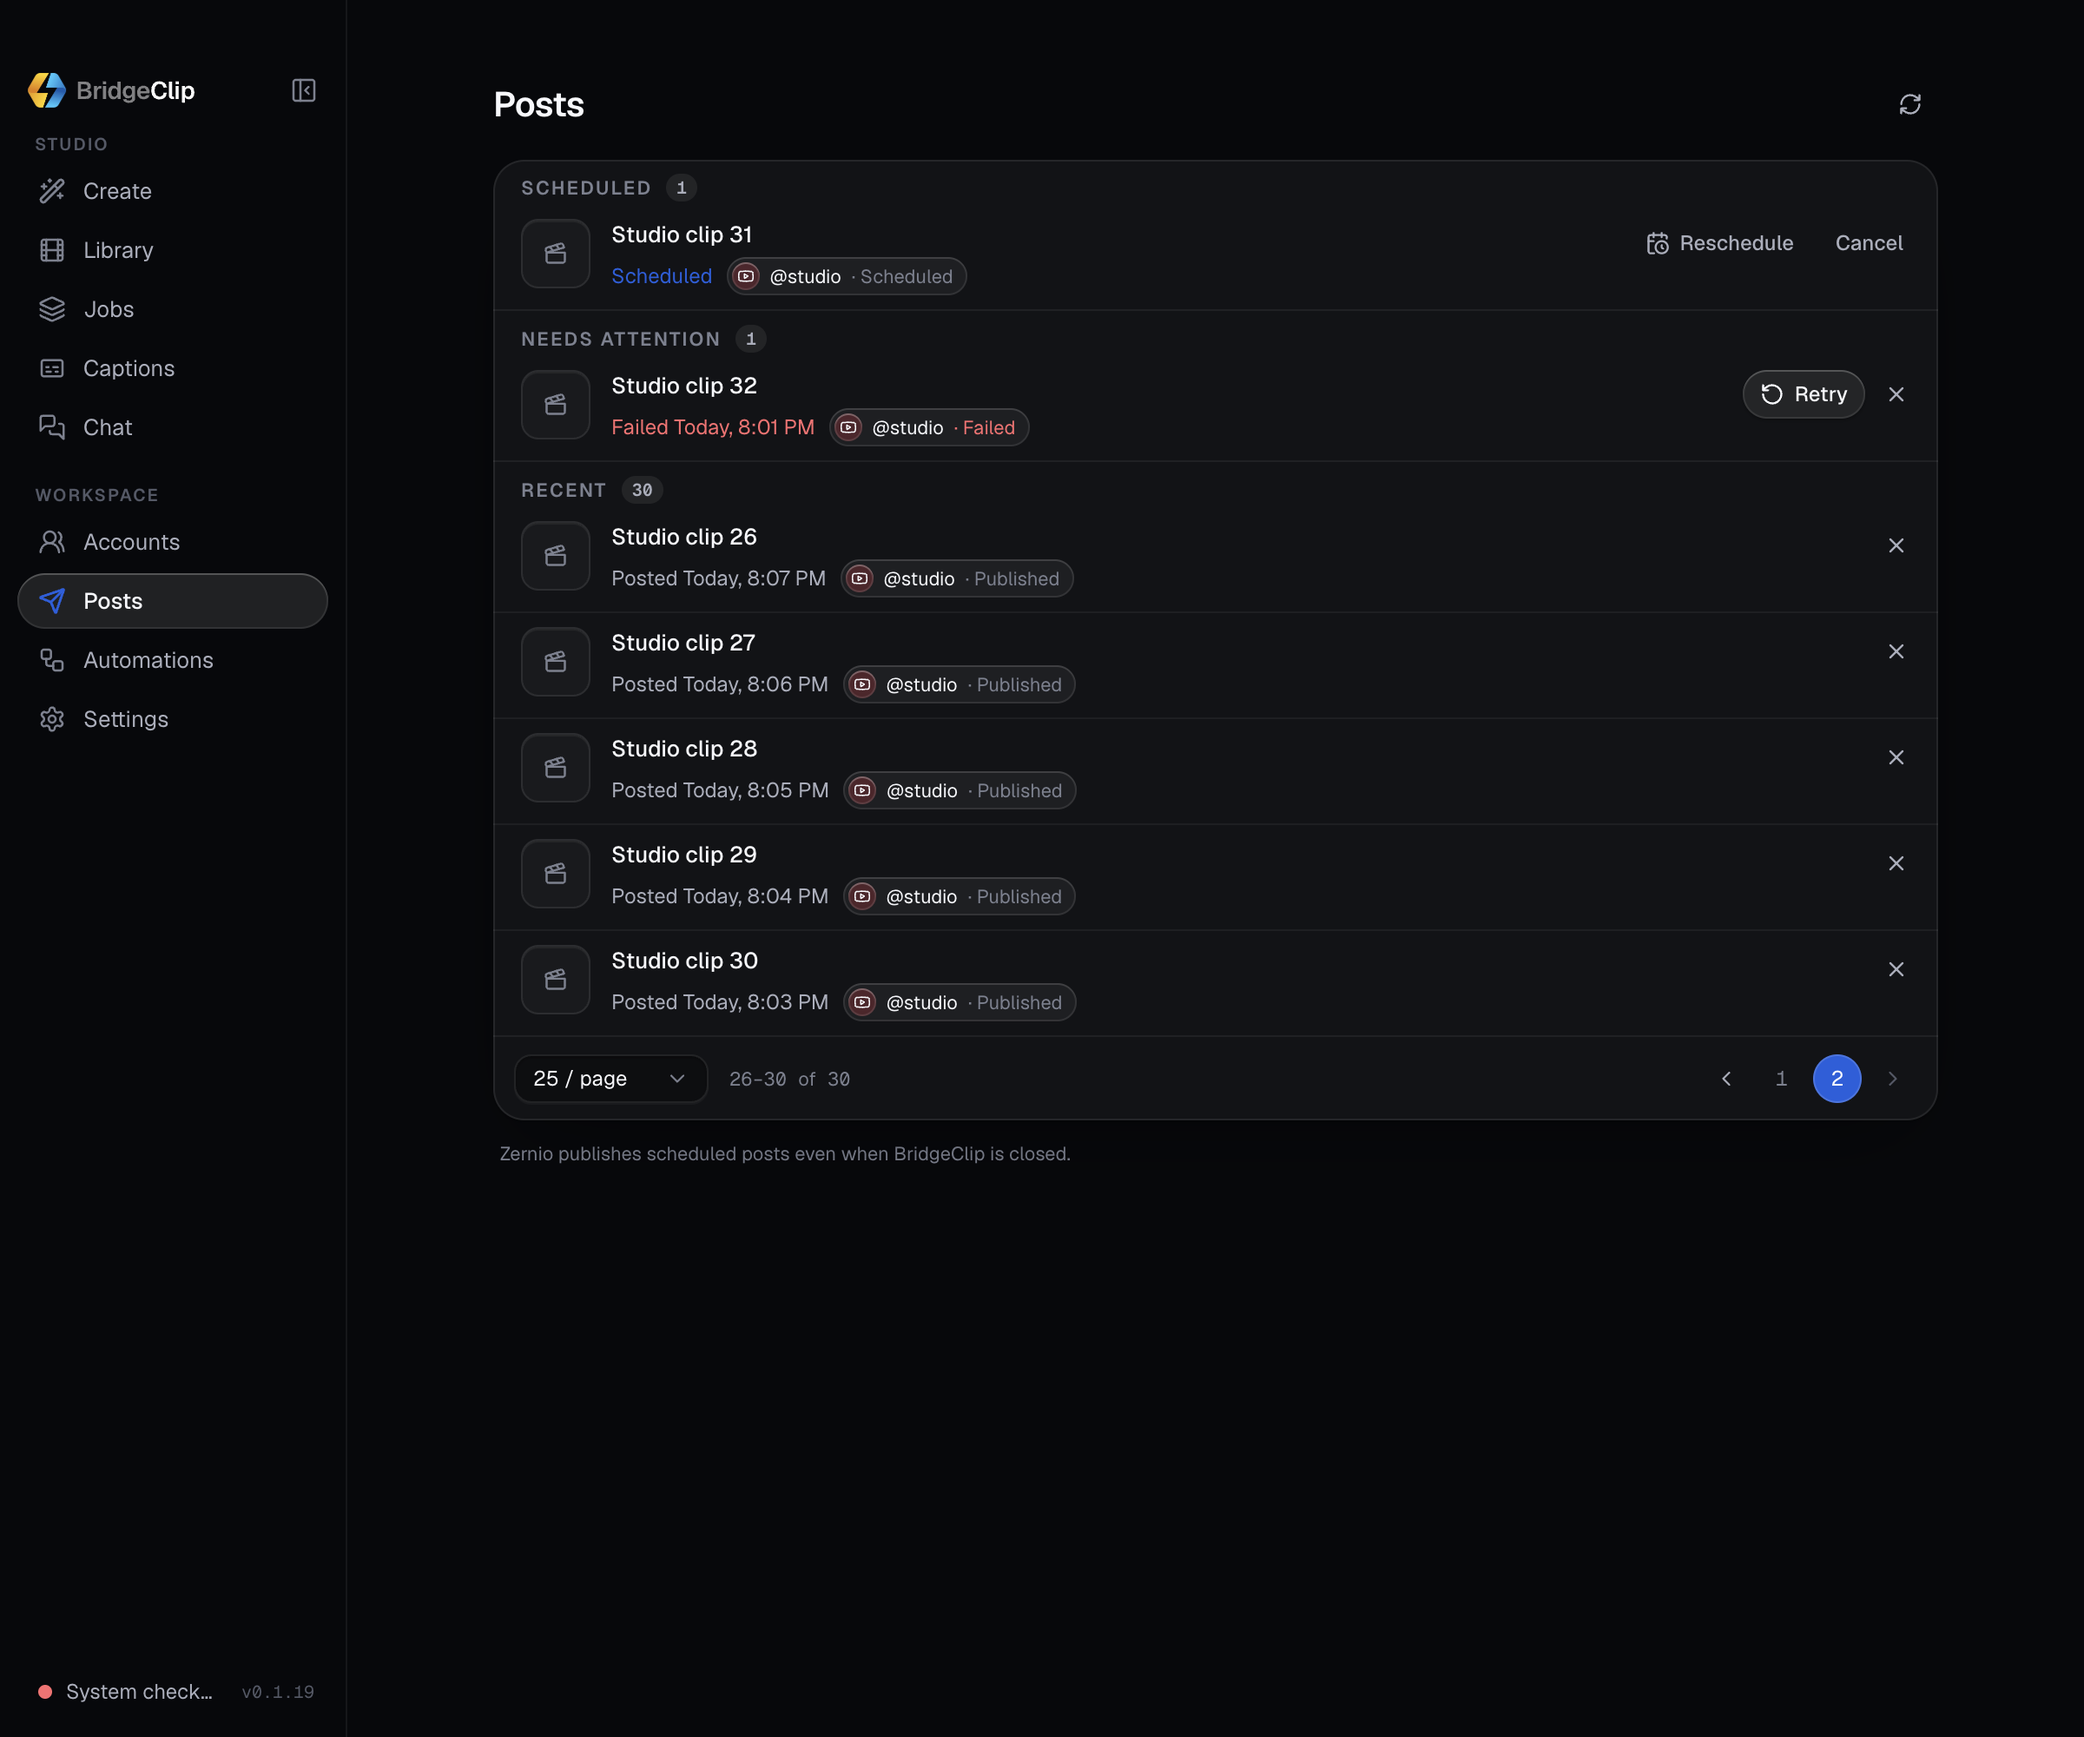
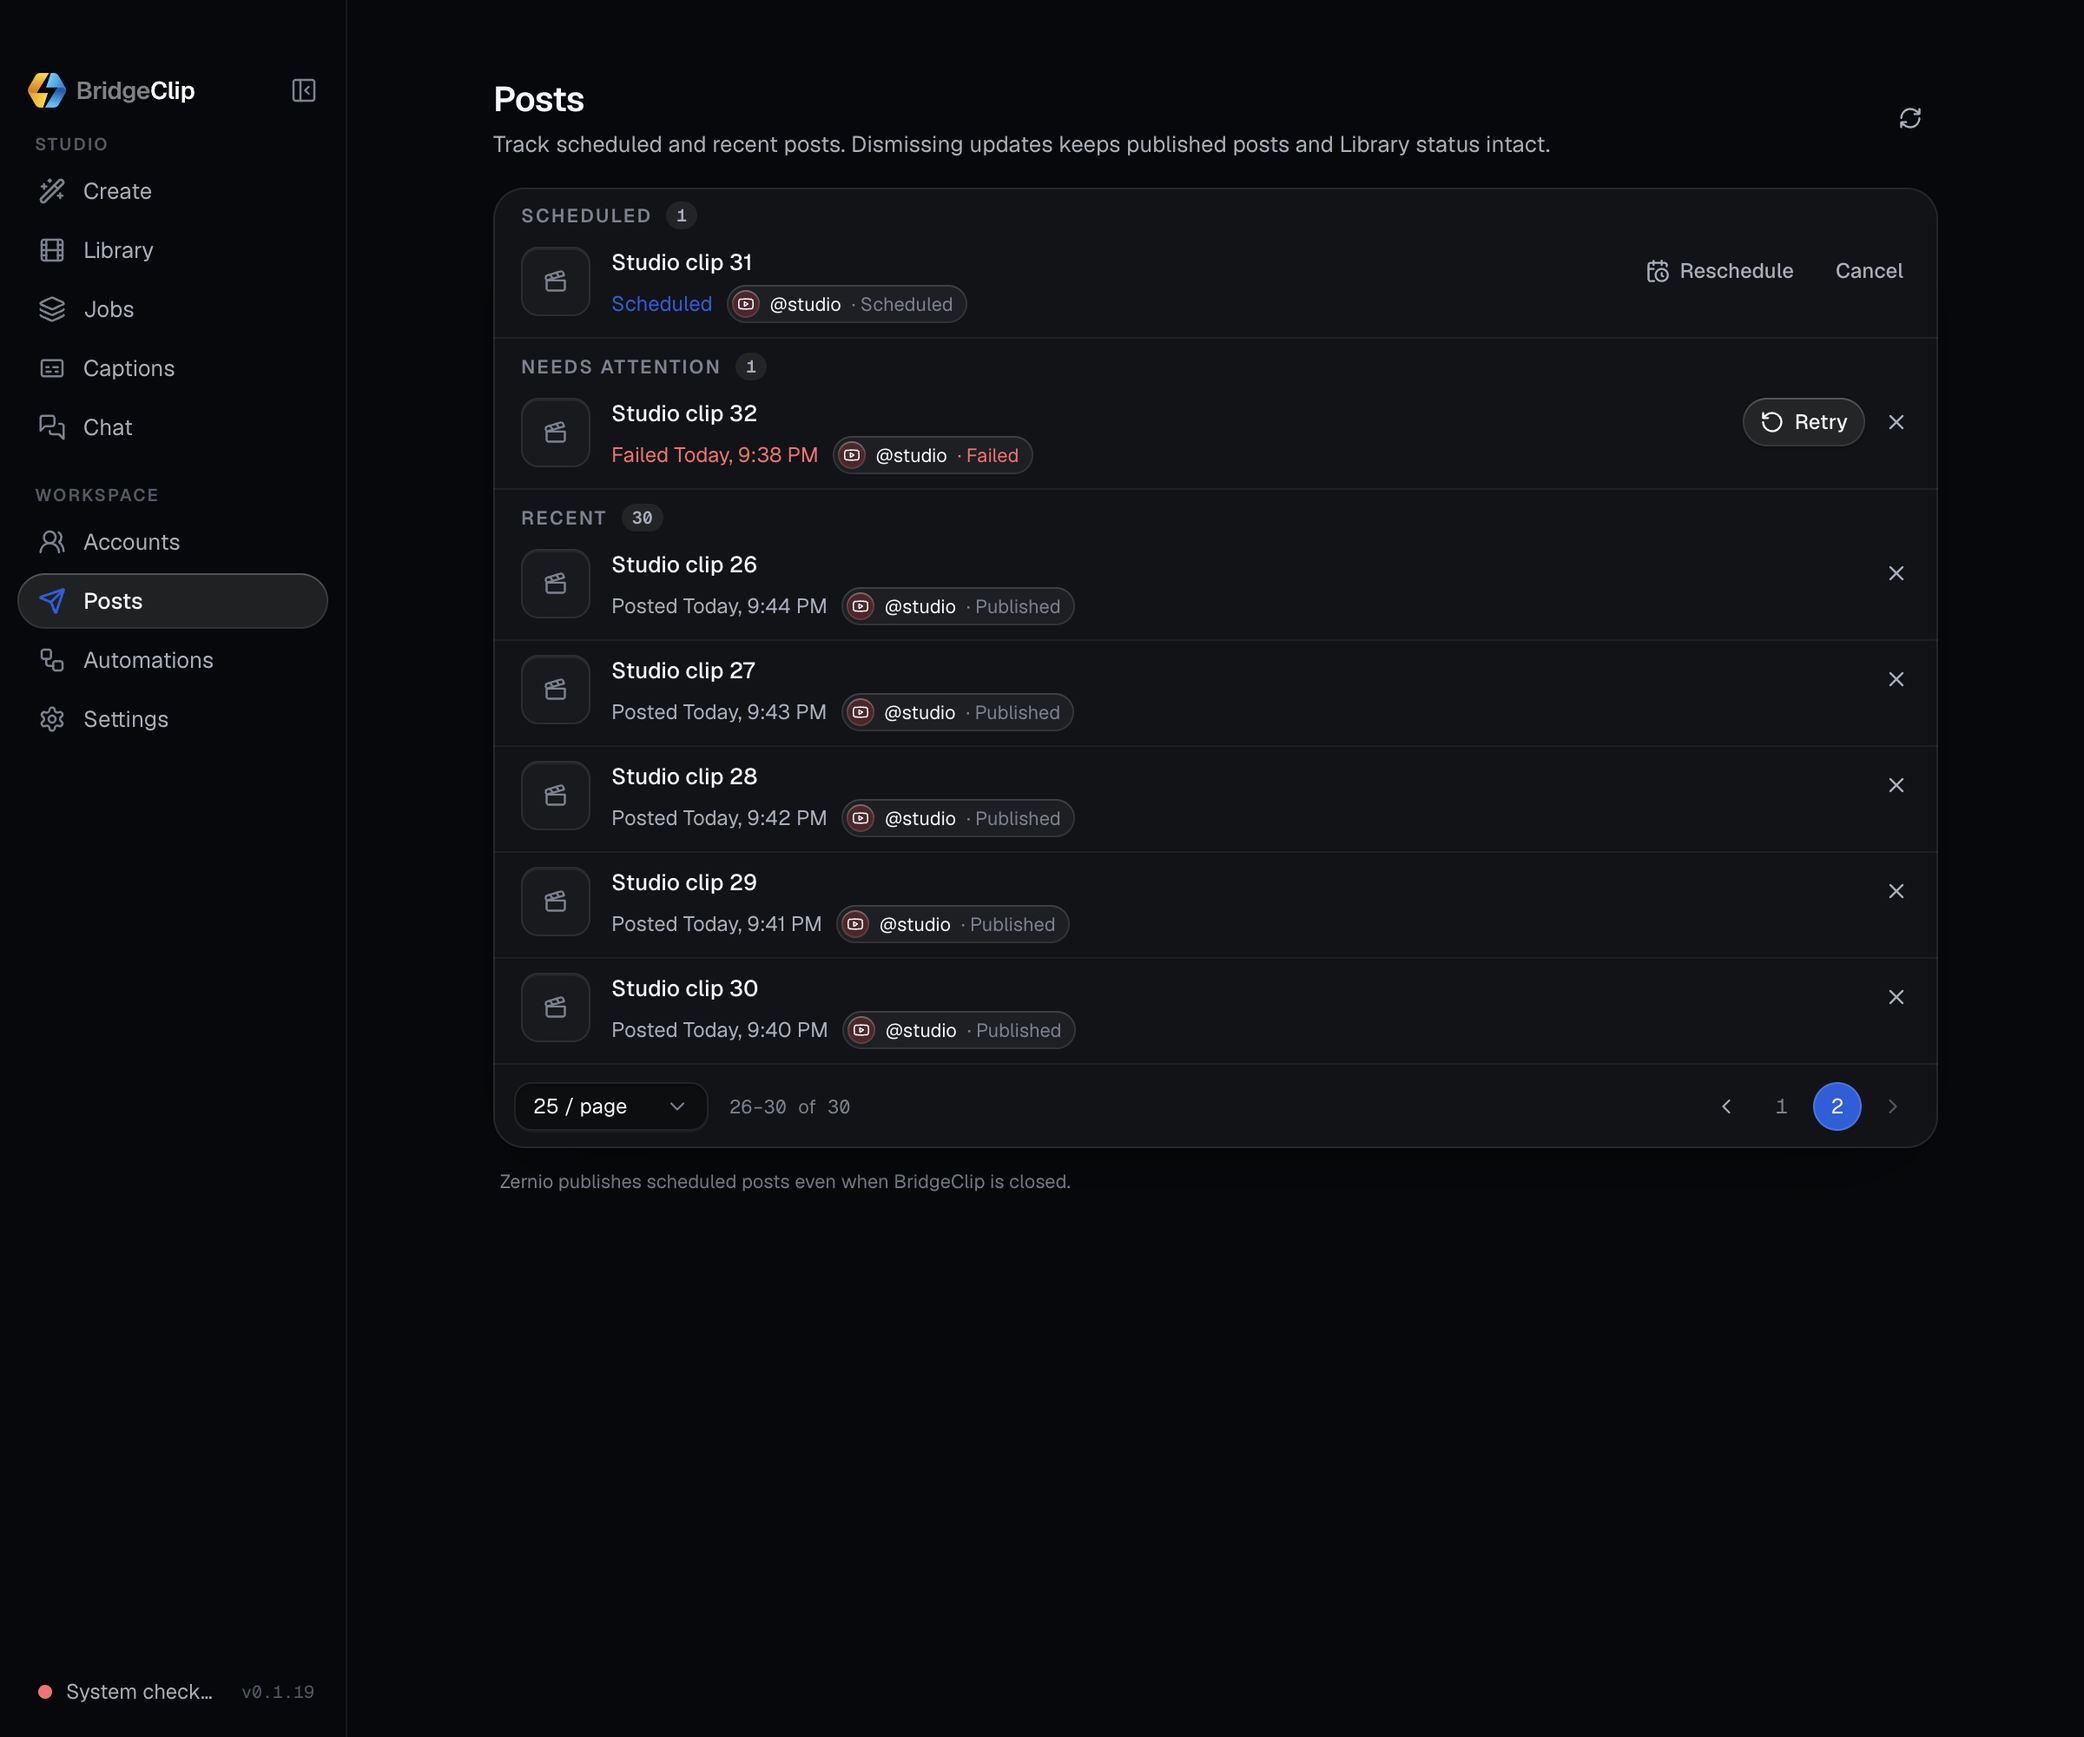
docs(posts): explain the activity feed in the page header

diff --git a/src/renderer/pages/PostsPage.tsx b/src/renderer/pages/PostsPage.tsx
@@ -20,6 +20,7 @@ import './jobs-pagination.css'
 import type { Page } from '../components/Sidebar'
 
 const TITLE = 'Posts'
+const DESCRIPTION = 'Track scheduled and recent posts. Dismissing updates keeps published posts and Library status intact.'
 /** Statuses only change on Zernio's side; the main process decides which posts are worth a request. */
 const POLL_MS = 30_000
 
@@ -58,7 +59,7 @@ export function PostsPage({ onNavigate }: { onNavigate: (page: Page) => void }):
         <PostsList onNavigate={onNavigate} />
       ) : (
         <>
-          <PageHeader title={TITLE} />
+          <PageHeader title={TITLE} description={DESCRIPTION} />
           <EmptyState
             className="mt-4"
             icon={<Send />}
@@ -106,6 +107,7 @@ function PostsList({ onNavigate }: { onNavigate: (page: Page) => void }): React.
     <>
       <PageHeader
         title={TITLE}
+        description={DESCRIPTION}
         className="items-center"
         actions={
           <Button

diff --git a/CHANGELOG.md b/CHANGELOG.md
@@ -34,6 +34,7 @@ The format follows [Keep a Changelog](https://keepachangelog.com/en/1.1.0/). Mai
 
 ### Changed
 
+- Posts explains its activity feed below the heading and makes clear that dismissing updates keeps published posts and Library status intact.
 - Captions keeps the editor open after saving, simplifies the preview header, and offers **Save & leave**, **Discard**, or **Keep editing** before leaving unsaved changes.
 - Posts replaces **Show all** with numbered pages for Recent posts and remembers the page-size setting shared with Jobs. Scheduled posts and items needing attention stay visible.
 
